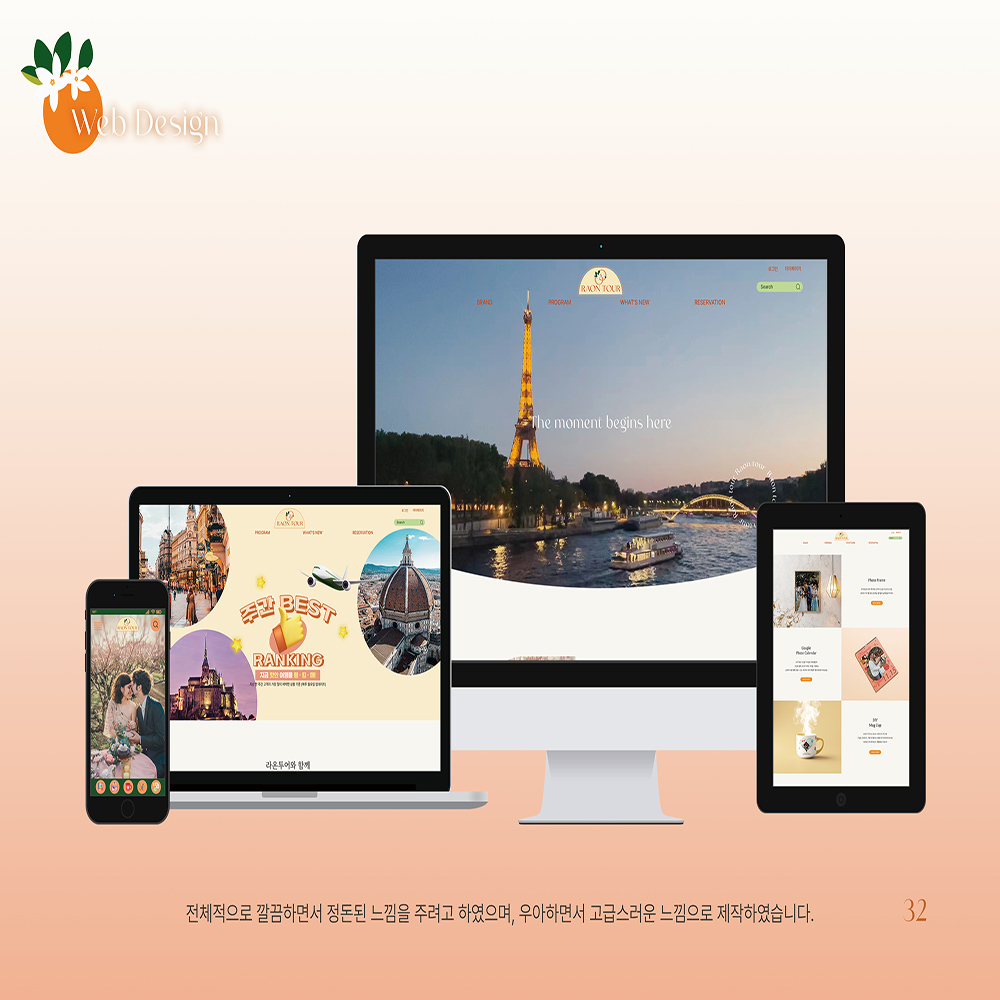
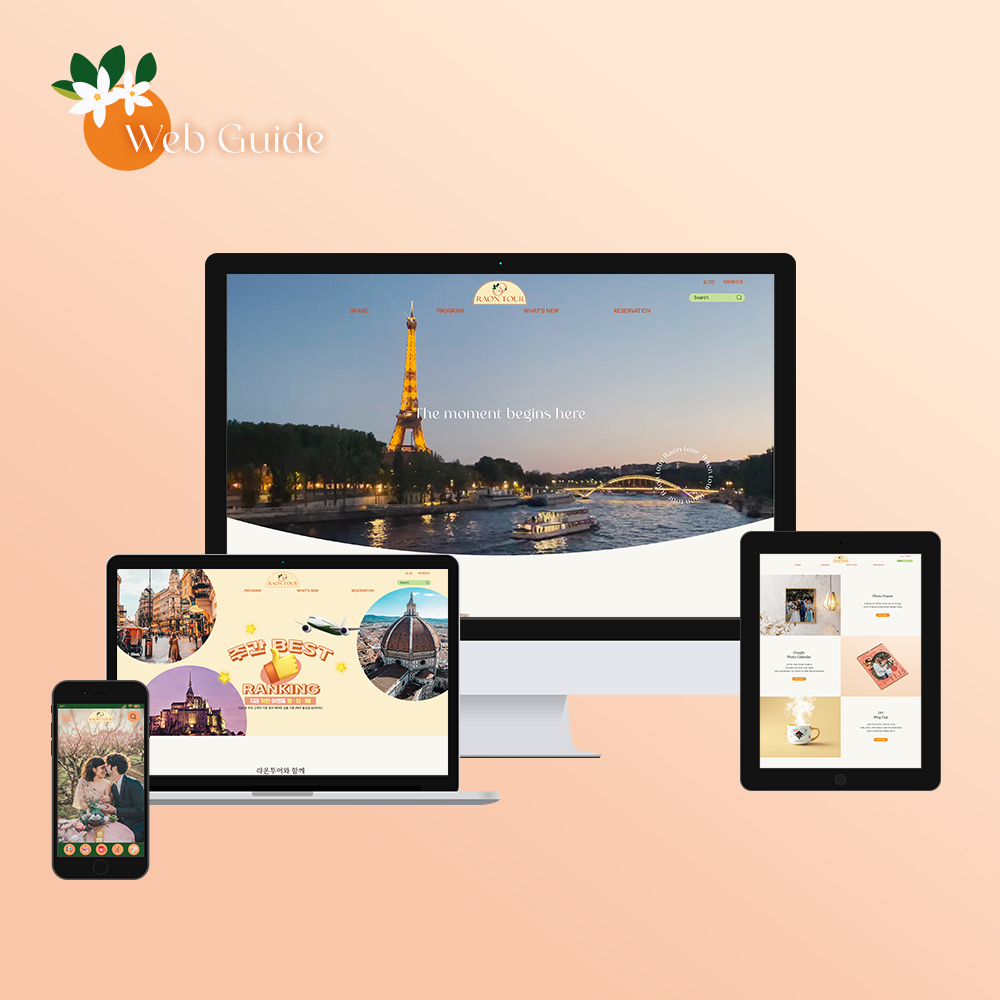
Add files via upload

diff --git a/web.html b/web.html
@@ -2,7 +2,7 @@
 <html>
 
 <head>
-	<title>가이드샘플</title>
+	<title>Web Guide</title>
 	<meta charset="utf-8">
 	<meta name="viewport" content="width=device-width, initial-scale=1">
 	<meta http-equiv="X-UA-Compatible" content="IE=edge">

diff --git a/css/style.css b/css/style.css
@@ -87,6 +87,7 @@ body {
     font-family: 'Pretendard';
     font-size: 17px;
     line-height: 28px;
+    background-color: #f9f7f2;
 }
 
 .size-50 {
